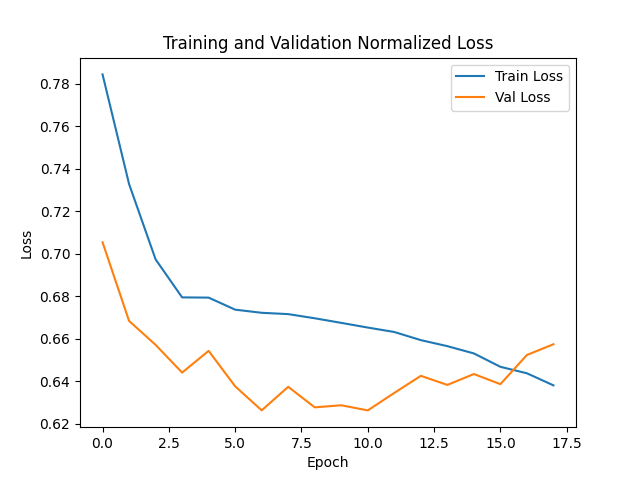
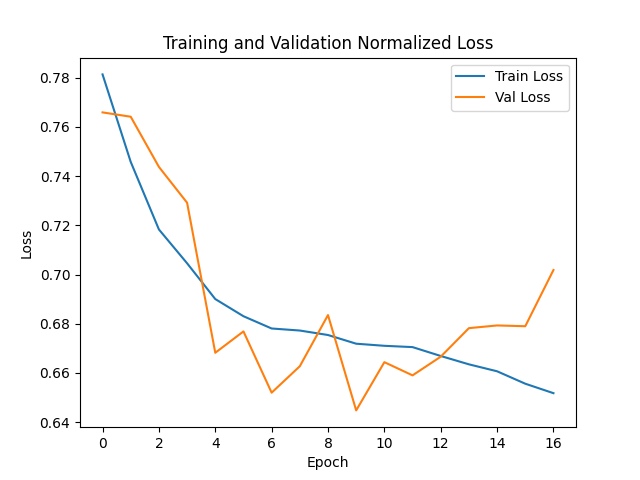
enhancement

diff --git a/GUI.py b/GUI.py
@@ -65,13 +65,6 @@ class DemandForecastGUI:
             self.model.load_state_dict(checkpoint_weights["model_state_dict"])
             self.model.eval()
 
-            print("=" * 60)
-            print("✅ Model loaded successfully!")
-            print(f"Input size: {input_size}")
-            print(f"Categorical features: {list(self.valid_categories.keys())}")
-            print(f"Numerical features:   {self.numerical_features}")
-            print("=" * 60)
-
             self._key_alias = {k.lower().strip(): k for k in self.valid_categories}
 
         except Exception as e:
@@ -87,8 +80,8 @@ class DemandForecastGUI:
                 size += 1
         return size
 
-    # ── Key resolver ──────────────────────────────────────────────────────────
     def _resolve_key(self, *candidates):
+        
         for c in candidates:
             if c in self.valid_categories:
                 return c
@@ -105,7 +98,6 @@ class DemandForecastGUI:
               f"Available: {list(self.valid_categories.keys())}")
         return None
 
-    # ── Widget factories ──────────────────────────────────────────────────────
     def _make_combo(self, parent, preferred_key, row, col,
                     label_text, label_col, *alt_keys):
         real_key = self._resolve_key(preferred_key, *alt_keys)
@@ -154,7 +146,6 @@ class DemandForecastGUI:
             w.grid(row=row, column=col + 1, padx=10, pady=7)
             setattr(self, attr, w)
 
-    # ── UI layout ─────────────────────────────────────────────────────────────
     def setup_ui(self):
         tk.Label(self.root, text="Demand Forecasting System",
                  font=("Segoe UI", 22, "bold"),
@@ -297,7 +288,6 @@ class DemandForecastGUI:
             justify=tk.LEFT)
         self.details_label.pack(pady=8)
 
-    # ── Encode categorical widget ─────────────────────────────────────────────
     def _encode(self, widget):
         real_key = widget._real_key
         if real_key is None:
@@ -315,7 +305,6 @@ class DemandForecastGUI:
                 f"Valid options: {valid}")
         return self.encoders[real_key].transform([val])[0]
 
-    # ── Build feature tensor ──────────────────────────────────────────────────
     def get_current_input(self):
         raw = {
             "Store ID":           self.store_entry.get(),
@@ -386,7 +375,6 @@ class DemandForecastGUI:
         feature_tensor = torch.cat(processed_features, dim=1).squeeze(0)
         return feature_tensor, raw
 
-    # ── Table refresh ─────────────────────────────────────────────────────────
     def _refresh_table(self):
         for item in self.tree.get_children():
             self.tree.delete(item)
@@ -413,7 +401,6 @@ class DemandForecastGUI:
             text=f"{n} / 14 days added",
             fg="#00ff88" if n == 14 else "#ff9500")
 
-    # ── Actions ───────────────────────────────────────────────────────────────
     def add_to_history(self):
         try:
             feature_tensor, raw = self.get_current_input()

diff --git a/data_processing.py b/data_processing.py
@@ -15,13 +15,11 @@ class DemandDataset(Dataset):
         self.X          = []
         self.y          = []
 
-        if artifacts is None:
-            # Training set — fit everything from scratch
+        if artifacts is None: # Training mode
             self.encoding()
             self.scale_features()
             self.set_embeddings()
-        else:
-            # Val/test set — reuse fitted artifacts from train
+        else: # Inference mode — reuse training artifacts
             self.encoders           = artifacts["encoders"]
             self.valid_categories   = artifacts["valid_categories"]
             self.feature_cols       = artifacts["feature_cols"]
@@ -34,7 +32,6 @@ class DemandDataset(Dataset):
 
         self.process_data()
 
-    # ── Fit path (train only) ─────────────────────────────────────────────────
     def encoding(self):
         self.encoders         = {}
         self.valid_categories = {}
@@ -44,8 +41,7 @@ class DemandDataset(Dataset):
 
         for col in categorical_cols:
             if col == "Date":
-                # Use ordinal int — avoids unseen-label errors on val/test dates
-                self.df[col] = pd.to_datetime(self.df[col]).map(lambda d: d.toordinal())
+                self.df[col] = pd.to_datetime(self.df[col]).map(lambda d: d.toordinal()) # get timestamp from date 
             else:
                 le = LabelEncoder()
                 self.df[col] = le.fit_transform(self.df[col])
@@ -72,7 +68,6 @@ class DemandDataset(Dataset):
             num_classes = len(self.valid_categories[col])
             self.embeddings[col] = nn.Embedding(num_classes, 5)
 
-    # ── Transform path (val/test only) ────────────────────────────────────────
     def _apply_encoders(self):
         for col in self.df.select_dtypes(include=["object"]).columns:
             if col == "Date":
@@ -87,7 +82,6 @@ class DemandDataset(Dataset):
         self.df[[self.target_col]] = self.target_scaler.transform(
             self.df[[self.target_col]])
 
-    # ── Shared ────────────────────────────────────────────────────────────────
     def process_data(self):
         groups = self.df.groupby(["Product ID", "Store ID"])
 

diff --git a/train.py b/train.py
@@ -22,7 +22,6 @@ if __name__ == "__main__":
         if len(group) >= 15:
             group_sorted = group.sort_values("Date")
             group_sorted.iloc[:14].to_csv("val_sequence.csv", index=False)   # 14 input days
-            # group_sorted.iloc[:15].to_csv("val_check.csv",    index=False)   # 15th row = ground truth
             break
 
     input_size = train_dataset.get_feature_size()
@@ -40,6 +39,7 @@ if __name__ == "__main__":
         model.train()
         train_loss = 0
         for X, y in train_loader:
+            
             optimizer.zero_grad()
             preds = model(X).squeeze()
             loss  = criterion(preds, y)
@@ -98,4 +98,5 @@ if __name__ == "__main__":
     plt.show()                    
     
     print("\n💾 Model saved to 'demand_model.pth'")
+    
     print("💾 Artifacts saved to 'model_artifacts.pkl'")